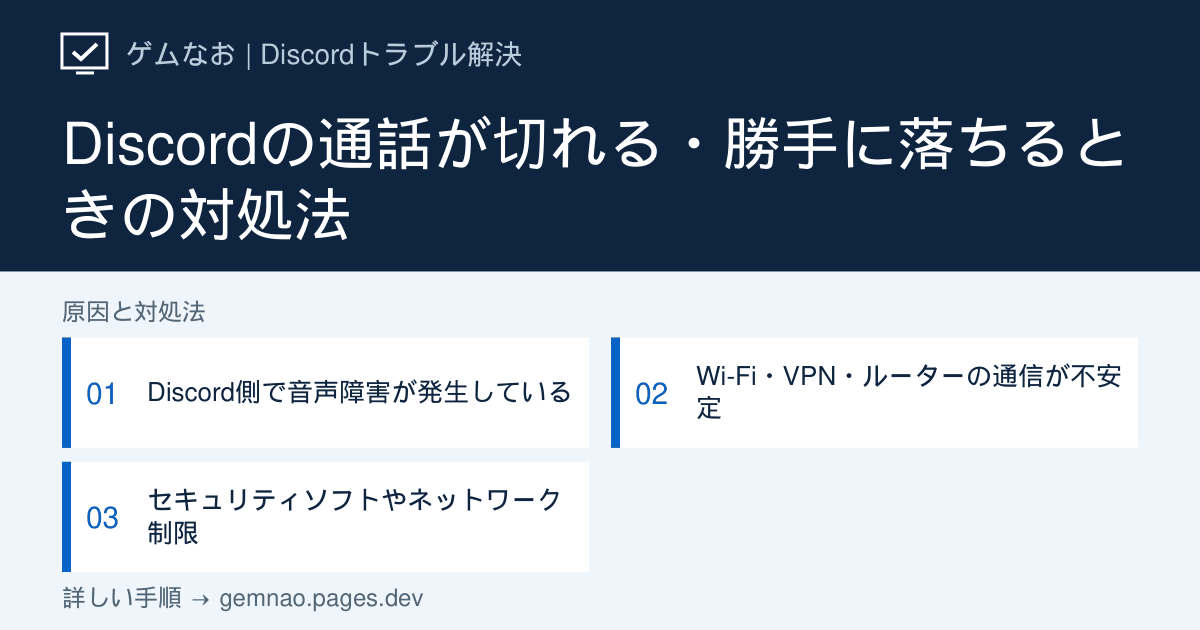
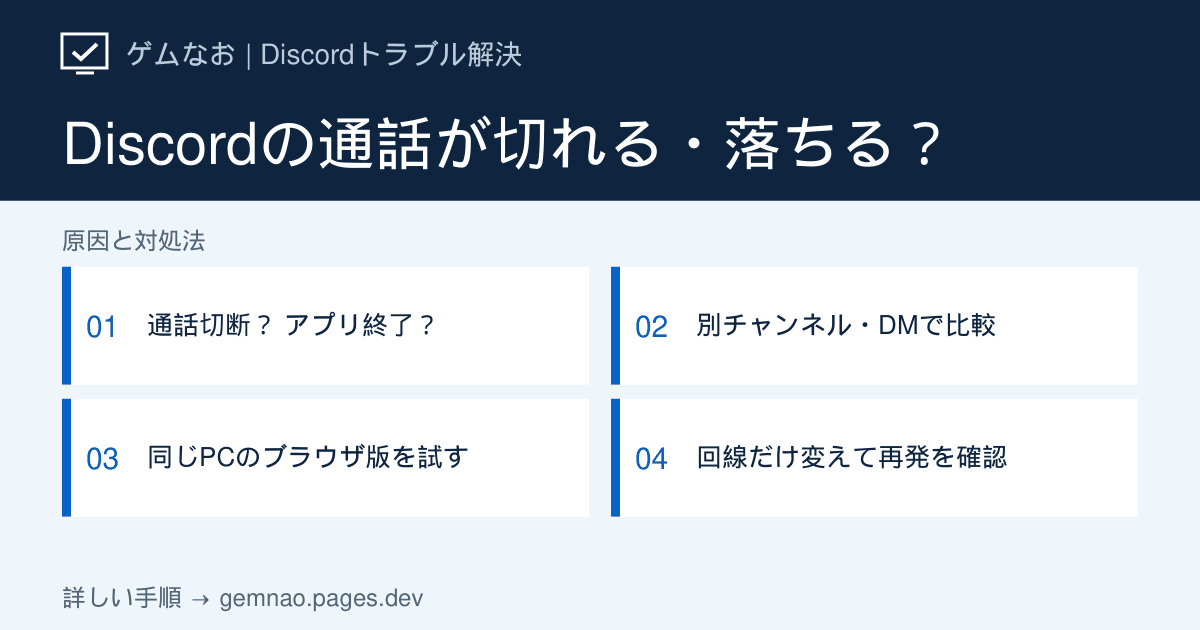
Rewrite Discord call disconnect guide with result branches

diff --git a/lib/discord-audio-growth-articles.ts b/lib/discord-audio-growth-articles.ts
@@ -172,25 +172,97 @@ export const discordAudioGrowthArticles: DiscordArticle[] = [
   },
   {
     slug: 'call-disconnects', category: 'connection',
-    title: 'Discordの通話が切れる・勝手に落ちるときの対処法',
+    title: 'Discordの通話が切れる・落ちる時の直し方【切断・アプリ終了を区別】',
     shortTitle: '通話が切れる・落ちる',
-    seoTitle: 'Discordの通話が切れる・勝手に落ちるときの直し方',
-    metaDescription: 'Discord通話が頻繁に切れる、ボイスチャンネルから落ちる場合の対処法。障害、回線、VPN、ルーター、音声設定を順に確認します。',
-    symptom: 'ボイスチャンネルへ入れても数秒・数分で切断される、ゲーム中だけ通話が落ちる、再接続を繰り返す場合の手順です。',
-    target: 'Windows版 Discordデスクトップアプリ / ブラウザ版',
-    conclusion: 'Discord Statusを確認し、VPNを切って有線接続または別回線で比較します。次にDiscordとルーターを再起動します。',
-    quickFixes: ['Discord Statusで障害の有無を確認する', 'VPN・プロキシを止め、有線または別回線で試す', 'Discordとルーターを再起動する'],
+    seoTitle: 'Discordの通話が切れる・落ちる原因と直し方【PC】',
+    metaDescription: 'Discordの通話切断、アプリ終了、音だけ途切れる症状を判定表で区別。別チャンネル・DM・ブラウザ版・別回線の比較結果から次の対処を選び、ゲーム中だけ切れる場合も確認します。',
+    symptom: 'ボイスチャンネルから退出してしまう、再接続を繰り返す、ゲーム中だけ通話が落ちる場合の手順です。Discordのウィンドウごと閉じる場合や、通話に残ったまま音だけ途切れる場合も最初に分けます。',
+    target: 'WindowsのDiscordデスクトップアプリ／ブラウザ版',
+    conclusion: '切れた時にDiscordが開いたままか、通話の接続表示や参加状態が変わったかを確認します。通話だけ切れるなら、障害情報を見てから同じ相手と別チャンネル・DMで比較。どの通話でも切れるなら同じPCでブラウザ版や別回線を試し、アプリ・回線・チャンネルのどこに条件が偏るかを調べます。',
+    quickFixes: [
+      '切断時のアプリ画面・通話の参加状態・エラー文言を確認する',
+      'Discord Statusを確認し、同じ相手と別チャンネルまたはDM通話で比較する',
+      '同じPCでアプリとブラウザ、次に回線だけを変え、いつもの切断までの時間を目安に再確認する',
+    ],
+    diagnosisTitle: '何が落ちた？ 通話切断・アプリ終了・音切れの判定表',
+    diagnosisIntro: '「落ちる」という言葉だけでは確認先が決まりません。相手にも、自分が通話から消えたのか、声だけ聞こえなくなったのかを確認してください。',
+    diagnosis: [
+      { symptom: 'Discordは開いたまま／通話が切断・再接続になる', check: '別チャンネルやDMでも同じ時間で切れる？', causeIndex: 2 },
+      { symptom: 'Discordのウィンドウが閉じる・アプリが再起動する', check: 'タスクトレイやプロセスにDiscordが残っている？', causeIndex: 1 },
+      { symptom: '通話に残ったまま／声だけぶつぶつ途切れる', check: '接続表示は維持されている？', causeIndex: 1 },
+      { symptom: 'DMは安定／特定のサーバー・チャンネルだけ切れる', check: 'ほかの参加者と同時に起きるか確認', causeIndex: 2 },
+      { symptom: 'アプリだけ切れる／同じPCのブラウザ版は安定', check: 'アプリの更新・再起動後も再現する？', causeIndex: 3 },
+      { symptom: 'アプリもブラウザも切れる／別回線なら安定', check: '元の回線・VPN・ネットワーク制限を確認', causeIndex: 4 },
+      { symptom: 'ゲーム中や配信中だけ切れる', check: 'ゲーム終了後、音声通話だけなら安定する？', causeIndex: 5 },
+    ],
     causes: [
-      { title: 'Discord側で音声障害が発生している', description: '複数人が同時に切断される場合はサービス側の可能性があります。', actions: ['Discord Statusを開く', 'VoiceやAPIに障害表示がないか確認する', '障害中は設定を変えず復旧を待つ'] },
-      { title: 'Wi-Fi・VPN・ルーターの通信が不安定', description: '短い通信断でもリアルタイム通話は切断されることがあります。', actions: ['VPNやプロキシを一時停止する', '可能なら有線LANまたは別回線で比較する', 'ルーターとPCを再起動する'] },
-      { title: 'セキュリティソフトやネットワーク制限', description: 'ファイアウォールや学校・会社のネットワークが音声通信を制限することがあります。', actions: ['家庭の別回線で再現するか確認する', 'Discordをセキュリティソフトの許可対象にする', '管理された回線では管理者へ利用可否を確認する'] },
+      {
+        title: '最初に通話切断・アプリ終了・音切れを区別する',
+        description: '画面が閉じただけでアプリが終了したとは限りません。通話の参加状態と、Discordが動き続けているかを一緒に見ます。',
+        actions: [
+          '切れた直後の時刻と「RTC接続中」「No Route」などの表示を控え、相手にも自分が通話から消えたか確認してもらう',
+          'ウィンドウが閉じた場合は通知領域のDiscordアイコンと、Ctrl＋Shift＋Escで開くタスクマネージャーのDiscordプロセスを確認する。画面を閉じただけで常駐している場合と、アプリ終了・再起動を分ける',
+          'アプリごと終了・再起動する場合は関連記事「Discordが落ちる・勝手に終了」へ進む。通話の参加状態が変わらず音だけ途切れる場合は「音声・マイク・語尾が途切れる」へ進む',
+          'Discordは開いたまま通話接続だけが切れる場合は手順2へ。再接続で「RTC接続中」「No Route」から進まないなら、それぞれの関連記事も確認する',
+        ],
+      },
+      {
+        title: '別チャンネル・DMで、通話場所だけを変えて比較',
+        description: '同じPC・同じ回線・同じ相手で通話場所を変えます。短時間つながっただけで解決とせず、普段切れるまでの時間を目安に確認します。',
+        actions: [
+          'Discord Statusで音声関連の障害を確認する。該当する障害があれば復旧を待つ。告知がなくても発生直後の障害を完全には除外できない',
+          '例として普段3分ほどで切れるなら、まず同じボイスチャンネルで5分程度の会話を試し、切れた時刻を控える。これは比較例で、長時間後に切れる場合は同じ程度の時間で比べる',
+          '次に同じ相手と別のボイスチャンネル、続いてDM通話を試す。回線やアプリの設定はその間変えない',
+          '特定チャンネルだけなら、同じ時刻にほかの参加者も切れたかを確認し、管理者へチャンネル設定・権限変更・移動や切断操作の有無を確認してもらう',
+          'DMを含むどの通話でも切れるなら手順3へ。特定チャンネルだけという結果だけで、端末の故障や回線全体の問題とは決めない',
+        ],
+      },
+      {
+        title: 'アプリとブラウザを、同じPC・同じ回線で比較',
+        description: 'Discordアプリ固有の条件かを確かめます。単にチャットが開くかではなく、実際の音声通話が維持できるかを比較します。',
+        actions: [
+          'アプリの通話から退出し、ブラウザで https://discord.com/app を開く。同じアカウントでログインし、マイクの利用を許可する',
+          '同じ相手・同じ通話場所へ入り、手順2と同程度の時間で会話する。アプリ版とブラウザ版から同時に通話へ入らない',
+          'ブラウザ版だけ安定するなら、アプリを通知領域から完全終了し、更新を反映して起動し直す。その後アプリで同じ通話を比較する',
+          'アプリだけで再発する場合は「音声・ビデオ」の音声設定にあるQoSの高優先度パケット設定を確認する。有効なら現在値を控えてオフにし、再接続して比較。変化がなければ元に戻す',
+          '両方で切れるなら手順4へ。ブラウザ版だけ切れる場合はブラウザの更新・別ブラウザでの通話を比べる。マイク許可がなく通話自体を試せない場合は比較未完了とする',
+        ],
+      },
+      {
+        title: '別回線で比較し、元の回線やVPNを確認',
+        description: '同じPCの回線だけを変えると、端末とネットワークの条件を分けやすくなります。速度測定の数値だけでは通話の安定性を判断できません。',
+        actions: [
+          'ダウンロード・クラウド同期を一つずつ止め、同じ通話で切断頻度が変わるか確認する',
+          'Wi-Fiなら有線LANで比較する。可能ならスマートフォンのテザリングなど別のインターネット回線でも、同じPC・同じDiscordで試す',
+          '有線だけ安定するならWi-Fi環境、別回線だけ安定するなら元の回線・ルーター・通信制限を調べる。有線化と別回線への変更は別の比較として記録する',
+          '自分で管理しているVPNを使用中なら、切断した状態で比較する。Discord公式は音声接続に使うVPNについてUDP対応が必要と案内している。会社・学校の回線では制限を管理者に確認する',
+          '元の回線だけで続く場合はルーターをメーカー手順で再起動し、セキュリティソフトのDiscord通信許可も確認する。別回線でも切れるなら手順5へ進む',
+        ],
+        note: 'ルーターの再起動は同じ回線の利用者にも影響します。初期化ボタンは押さず、ファイアウォール全体を無効にしたまま使わないでください。',
+      },
+      {
+        title: 'ゲーム・配信中だけ切れる：負荷と症状を再確認',
+        description: 'ゲーム中の音切れを通話切断と取り違えないよう、接続表示と参加状態も見ます。高いCPU使用率だけで原因は確定できません。',
+        actions: [
+          'ゲームと配信を止めた音声通話、ゲームを起動した通話、配信も開始した通話を順番に比較する。相手と回線はそろえる',
+          'Ctrl＋Shift＋Esc → タスクマネージャーの「パフォーマンス」で、症状が出る時のCPU・メモリ・GPUの状態を見る。「プロセス」で負荷の大きい録画や不要なアプリも確認する',
+          '録画などを1つずつ終了して同じ条件を試す。処理を止めると切断も減るかを確認し、改善しなければ負荷だけを原因と決めない',
+          '接続は残り、プッシュトゥトークだけ反応しないならキー割り当てやゲームとの権限差を調べる。アプリが終了するならクラッシュの記事、声だけ切れるなら音切れの記事へ進む',
+        ],
+      },
     ],
-    ifNotFixed: 'RTC接続中やNo Routeが表示される場合は、それぞれの専用記事へ進んでください。切断時刻、利用回線、VPNの有無を記録して公式サポートへ伝えると切り分けしやすくなります。',
+    ifNotFixed: '相談時は「切断時刻と再発までの時間」「アプリは残るか」「同じ相手との別チャンネル・DMの結果」「アプリ／ブラウザの結果」「元の回線／別回線の結果」「VPNとゲーム・配信の有無」「エラー文言」をまとめてください。特定チャンネルだけなら管理者、回線だけに偏るなら回線・ルーター側、条件を変えても続くならDiscord公式サポートへ伝えます。',
     faqs: [
-      { question: 'ゲーム中だけ通話が切れます', answer: 'ゲームの通信量だけでなく、PC負荷やセキュリティソフトも確認してください。まず有線接続と不要なバックグラウンド通信の停止で比較します。' },
-      { question: '特定のサーバーだけ切れる場合は？', answer: '別のボイスチャンネルやDM通話で比較し、サーバー側の地域・権限・チャンネル固有問題か切り分けてください。' },
+      { question: 'ネット速度は速いのに通話が切れるのはなぜですか？', answer: '速度測定だけでは一時的な通信断や接続制限を確認できません。同じPCで有線・別回線を比較し、実際の切断頻度が変わるかを見てください。' },
+      { question: 'ブラウザでチャットが開けば回線は正常ですか？', answer: 'チャットが開くことと音声通話を維持できることは別です。ブラウザ版でも同じ相手との音声通話を試し、普段切れるまでの時間を目安に比較してください。' },
+      { question: '特定のサーバーだけ切れる時も再インストールしますか？', answer: '先に別チャンネルとDMで比較します。特定の場所に偏るなら管理者と設定・権限・切断操作の有無を確認し、その結果が出る前に再インストールを繰り返さないでください。' },
+      { question: 'ゲーム中に声だけ聞こえなくなる場合も回線の問題ですか？', answer: '必ずしも回線とは限りません。通話の参加状態が残るなら、入力機器・入力感度・プッシュトゥトーク・PC負荷などを確認します。音だけ途切れる記事へ進んで切り分けてください。' },
     ],
-    sources: [voiceGuide, discordStatus], related: ['rtc-connecting', 'no-route', 'loading-stuck'], checkedAt: '2026-09-19', status: 'verified',
+    sources: [voiceGuide, discordStatus, { label: 'Discord公式：音声接続エラー・VPNとネットワークの確認（英語）', url: 'https://support.discord.com/hc/en-us/articles/115001310031-Voice-Connection-Errors' }],
+    related: ['voice-cutting-out', 'crashing', 'rtc-connecting', 'no-route', 'system-helper'],
+    checkedAt: '2026-09-28', status: 'verified',
+    ogTitle: 'Discordの通話が切れる・落ちる？',
+    ogSteps: ['通話切断？ アプリ終了？', '別チャンネル・DMで比較', '同じPCのブラウザ版を試す', '回線だけ変えて再発を確認'],
   },
   {
     slug: 'echo-double-voice', category: 'audio',

diff --git a/lib/og-image-manifest.ts b/lib/og-image-manifest.ts
@@ -6,7 +6,7 @@ export const ogImageManifest: Record<string, string> = {
   "/discord/bot-add": "77bf7c24",
   "/discord/bot-not-responding": "ee315b02",
   "/discord/bot-remove": "b35c5c5b",
-  "/discord/call-disconnects": "c75567e6",
+  "/discord/call-disconnects": "bb6b1e0b",
   "/discord/camera-not-working": "1a81ecf4",
   "/discord/crashing": "835e2bab",
   "/discord/echo-double-voice": "bf3f502a",
